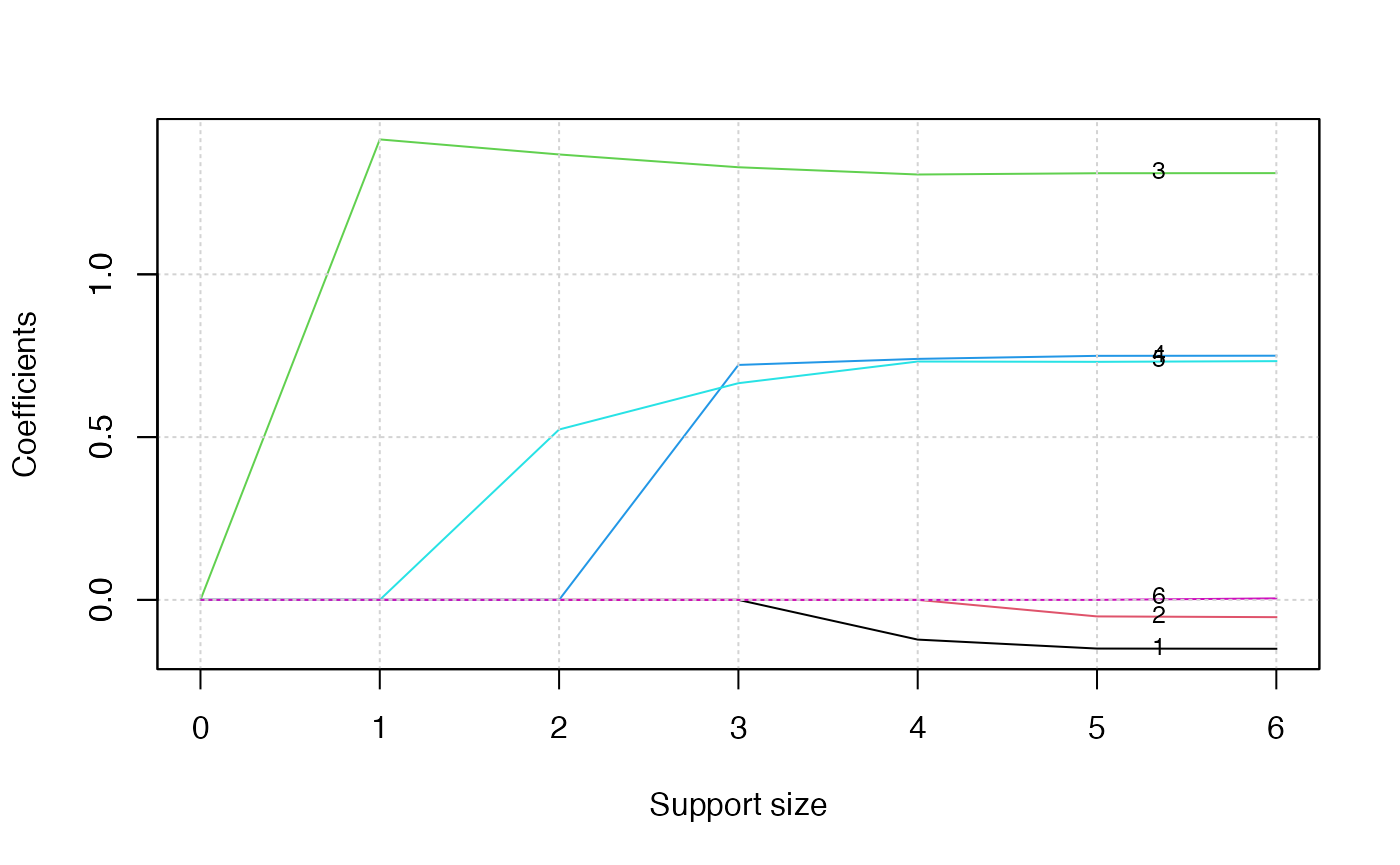
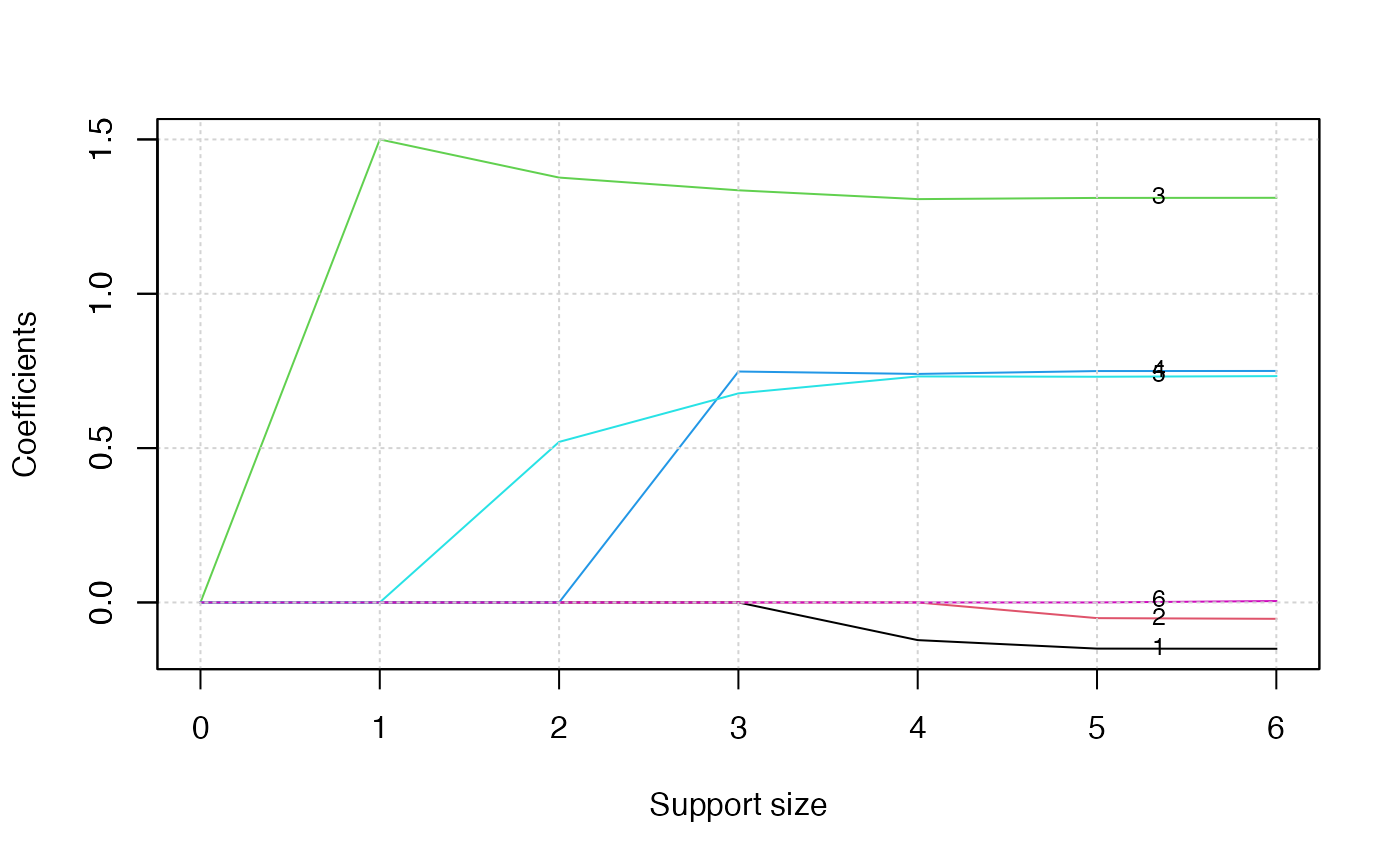
Built site for abess: 0.4.6@316d23e

diff --git a/articles/v04-PoissonGammaReg.html b/articles/v04-PoissonGammaReg.html
@@ -180,26 +180,26 @@
 <code class="sourceCode R"><span><span class="co"># draw the estimated coefficients on all candidate support size</span></span>
 <span><span class="fu"><a href="https://rdrr.io/r/stats/coef.html" class="external-link">coef</a></span><span class="op">(</span><span class="va">abess_fit</span><span class="op">)</span></span></code></pre></div>
 <pre><code><span><span class="co">## 7 x 7 sparse Matrix of class "dgCMatrix"</span></span>
-<span><span class="co">##                    0         1         2           3          4           5</span></span>
-<span><span class="co">## (intercept) 1.581038 0.8669804 0.3052350 -0.05518507 -0.1047519 -0.11247215</span></span>
-<span><span class="co">## age         .        .         .          .          -0.1219906 -0.14952589</span></span>
-<span><span class="co">## sex         .        .         .          .           .         -0.05079657</span></span>
-<span><span class="co">## job         .        1.4144348 1.3682226  1.32894420  1.3066498  1.31052728</span></span>
-<span><span class="co">## education   .        .         .          0.72169239  0.7402870  0.74962104</span></span>
-<span><span class="co">## region      .        .         0.5233401  0.66562804  0.7321651  0.73122135</span></span>
-<span><span class="co">## marriage    .        .         .          .           .          .         </span></span>
+<span><span class="co">##                    0         1         2          3          4           5</span></span>
+<span><span class="co">## (intercept) 1.581038 0.4281173 0.2558213 -0.1046718 -0.1048012 -0.11247259</span></span>
+<span><span class="co">## age         .        .         .          .         -0.1220305 -0.14952569</span></span>
+<span><span class="co">## sex         .        .         .          .          .         -0.05079627</span></span>
+<span><span class="co">## job         .        1.5000590 1.3764398  1.3352362  1.3066528  1.31052729</span></span>
+<span><span class="co">## education   .        .         .          0.7481282  0.7402961  0.74962052</span></span>
+<span><span class="co">## region      .        .         0.5200980  0.6772810  0.7321931  0.73122143</span></span>
+<span><span class="co">## marriage    .        .         .          .          .          .         </span></span>
 <span><span class="co">##                        6</span></span>
-<span><span class="co">## (intercept) -0.113162654</span></span>
-<span><span class="co">## age         -0.150217854</span></span>
-<span><span class="co">## sex         -0.053080658</span></span>
-<span><span class="co">## job          1.310896794</span></span>
-<span><span class="co">## education    0.750017046</span></span>
-<span><span class="co">## region       0.733310373</span></span>
-<span><span class="co">## marriage     0.004552143</span></span></code></pre>
+<span><span class="co">## (intercept) -0.113009283</span></span>
+<span><span class="co">## age         -0.150101543</span></span>
+<span><span class="co">## sex         -0.053034139</span></span>
+<span><span class="co">## job          1.310882786</span></span>
+<span><span class="co">## education    0.749947673</span></span>
+<span><span class="co">## region       0.733199019</span></span>
+<span><span class="co">## marriage     0.004493453</span></span></code></pre>
 <div class="sourceCode" id="cb10"><pre class="downlit sourceCode r">
 <code class="sourceCode R"><span><span class="co"># get the deviance of the estimated model on all candidate support size</span></span>
 <span><span class="fu"><a href="https://rdrr.io/r/stats/deviance.html" class="external-link">deviance</a></span><span class="op">(</span><span class="va">abess_fit</span><span class="op">)</span></span></code></pre></div>
-<pre><code><span><span class="co">## [1]  -282.3847  -764.2346  -936.2063 -1011.7423 -1013.1902 -1013.6433 -1013.6466</span></span></code></pre>
+<pre><code><span><span class="co">## [1]  -282.3847  -792.8596  -936.6450 -1011.8841 -1013.1902 -1013.6433 -1013.6466</span></span></code></pre>
 <div class="sourceCode" id="cb12"><pre class="downlit sourceCode r">
 <code class="sourceCode R"><span><span class="co"># print the fitted model</span></span>
 <span><span class="fu"><a href="https://rdrr.io/r/base/print.html" class="external-link">print</a></span><span class="op">(</span><span class="va">abess_fit</span><span class="op">)</span></span></code></pre></div>
@@ -208,9 +208,9 @@
 <span><span class="co">## </span></span>
 <span><span class="co">##   support.size        dev        GIC</span></span>
 <span><span class="co">## 1            0  -282.3847  -564.7694</span></span>
-<span><span class="co">## 2            1  -764.2346 -1525.7328</span></span>
-<span><span class="co">## 3            2  -936.2063 -1866.9398</span></span>
-<span><span class="co">## 4            3 -1011.7423 -2015.2755</span></span>
+<span><span class="co">## 2            1  -792.8596 -1582.9829</span></span>
+<span><span class="co">## 3            2  -936.6450 -1867.8174</span></span>
+<span><span class="co">## 4            3 -1011.8841 -2015.5593</span></span>
 <span><span class="co">## 5            4 -1013.1902 -2015.4350</span></span>
 <span><span class="co">## 6            5 -1013.6433 -2013.6050</span></span>
 <span><span class="co">## 7            6 -1013.6466 -2010.8751</span></span></code></pre>
@@ -218,12 +218,12 @@
 <div class="sourceCode" id="cb14"><pre class="downlit sourceCode r">
 <code class="sourceCode R"><span><span class="fu"><a href="https://rdrr.io/r/utils/head.html" class="external-link">head</a></span><span class="op">(</span><span class="fu"><a href="https://rdrr.io/r/stats/predict.html" class="external-link">predict</a></span><span class="op">(</span><span class="va">abess_fit</span>, newx <span class="op">=</span> <span class="va">dat</span><span class="op">$</span><span class="va">x</span>, support.size <span class="op">=</span> <span class="fu"><a href="https://rdrr.io/r/base/c.html" class="external-link">c</a></span><span class="op">(</span><span class="fl">3</span>, <span class="fl">4</span><span class="op">)</span><span class="op">)</span><span class="op">)</span></span></code></pre></div>
 <pre><code><span><span class="co">##              3         4</span></span>
-<span><span class="co">## [1,]  1.849023  1.954858</span></span>
-<span><span class="co">## [2,]  2.695207  2.692242</span></span>
-<span><span class="co">## [3,]  3.074630  3.088164</span></span>
-<span><span class="co">## [4,] -1.031980 -1.301919</span></span>
-<span><span class="co">## [5,] -2.175401 -2.211152</span></span>
-<span><span class="co">## [6,]  4.105372  4.103335</span></span></code></pre>
+<span><span class="co">## [1,]  1.838257  1.954873</span></span>
+<span><span class="co">## [2,]  2.650751  2.692234</span></span>
+<span><span class="co">## [3,]  3.080213  3.088154</span></span>
+<span><span class="co">## [4,] -1.098245 -1.302048</span></span>
+<span><span class="co">## [5,] -2.200387 -2.211218</span></span>
+<span><span class="co">## [6,]  4.107200  4.103329</span></span></code></pre>
 <p>The <code><a href="../reference/plot.abess.html">plot.abess()</a></code> function helps to visualize the change of models with the change of support size. There are 5 types of graph you can generate, including <code>coef</code> for the coefficient value, <code>l2norm</code> for the L2-norm of the coefficients, <code>dev</code> for the deviance and <code>tune</code> for the tuning value. Default if <code>coef</code>.</p>
 <div class="sourceCode" id="cb16"><pre class="downlit sourceCode r">
 <code class="sourceCode R"><span><span class="fu"><a href="https://rdrr.io/r/graphics/plot.default.html" class="external-link">plot</a></span><span class="op">(</span><span class="va">abess_fit</span>, label <span class="op">=</span> <span class="cn">TRUE</span><span class="op">)</span></span></code></pre></div>
@@ -236,7 +236,7 @@
 <p>The tuning value reaches the lowest point at 3. And We might choose the estimated model with support size equals 6 as our final model. In fact, the tuning values of different model sizes are provided in <code>tune.value</code> of the <code>abess</code> object. You can get the best model size through the following call.</p>
 <div class="sourceCode" id="cb18"><pre class="downlit sourceCode r">
 <code class="sourceCode R"><span><span class="va">abess_fit</span><span class="op">$</span><span class="va">support.size</span><span class="op">[</span><span class="fu"><a href="https://rdrr.io/r/base/which.min.html" class="external-link">which.min</a></span><span class="op">(</span><span class="va">abess_fit</span><span class="op">$</span><span class="va">tune.value</span><span class="op">)</span><span class="op">]</span></span></code></pre></div>
-<pre><code><span><span class="co">## [1] 4</span></span></code></pre>
+<pre><code><span><span class="co">## [1] 3</span></span></code></pre>
 <p>To extract the specified model from the <code>abess</code> object, we can call the <code><a href="../reference/extract.abess.html">extract()</a></code> function with a given <code>support.size</code>. If <code>support.size</code> is not provided, the model with the best tuning value will be returned. Here we extract the model with support size equals to 3.</p>
 <div class="sourceCode" id="cb20"><pre class="downlit sourceCode r">
 <code class="sourceCode R"><span><span class="va">best.model</span> <span class="op">=</span> <span class="fu"><a href="../reference/extract.abess.html">extract</a></span><span class="op">(</span><span class="va">abess_fit</span>, support.size <span class="op">=</span> <span class="fl">3</span><span class="op">)</span></span>
@@ -249,23 +249,23 @@
 <span><span class="co">##   .. ..@ Dimnames:List of 2</span></span>
 <span><span class="co">##   .. .. ..$ : chr [1:6] "age" "sex" "job" "education" ...</span></span>
 <span><span class="co">##   .. .. ..$ : chr "3"</span></span>
-<span><span class="co">##   .. ..@ x       : num [1:3] 1.329 0.722 0.666</span></span>
+<span><span class="co">##   .. ..@ x       : num [1:3] 1.335 0.748 0.677</span></span>
 <span><span class="co">##   .. ..@ factors : list()</span></span>
-<span><span class="co">##  $ intercept   : num -0.0552</span></span>
+<span><span class="co">##  $ intercept   : num -0.105</span></span>
 <span><span class="co">##  $ support.size: num 3</span></span>
 <span><span class="co">##  $ support.vars: chr [1:3] "job" "education" "region"</span></span>
-<span><span class="co">##  $ support.beta: num [1:3] 1.329 0.722 0.666</span></span>
+<span><span class="co">##  $ support.beta: num [1:3] 1.335 0.748 0.677</span></span>
 <span><span class="co">##  $ dev         : num -1012</span></span>
-<span><span class="co">##  $ tune.value  : num -2015</span></span></code></pre>
+<span><span class="co">##  $ tune.value  : num -2016</span></span></code></pre>
 <div class="sourceCode" id="cb22"><pre class="downlit sourceCode r">
 <code class="sourceCode R"><span><span class="va">best.model</span><span class="op">$</span><span class="va">beta</span></span></code></pre></div>
 <pre><code><span><span class="co">## 6 x 1 sparse Matrix of class "dgCMatrix"</span></span>
 <span><span class="co">##                   3</span></span>
 <span><span class="co">## age       .        </span></span>
 <span><span class="co">## sex       .        </span></span>
-<span><span class="co">## job       1.3289442</span></span>
-<span><span class="co">## education 0.7216924</span></span>
-<span><span class="co">## region    0.6656280</span></span>
+<span><span class="co">## job       1.3352362</span></span>
+<span><span class="co">## education 0.7481282</span></span>
+<span><span class="co">## region    0.6772810</span></span>
 <span><span class="co">## marriage  .</span></span></code></pre>
 <p>The return is a list containing the basic information of the estimated model. The best model has estimated coefficients every close to the true coefficients and it successfully recovers the correct support.</p>
 </div>
@@ -303,21 +303,21 @@ y_i \sim Gamma(\mu_i, \alpha),
 <span><span class="fu"><a href="https://rdrr.io/r/stats/coef.html" class="external-link">coef</a></span><span class="op">(</span><span class="va">abess_fit</span><span class="op">)</span></span></code></pre></div>
 <pre><code><span><span class="co">## 7 x 7 sparse Matrix of class "dgCMatrix"</span></span>
 <span><span class="co">##                    0        1         2         3         4         5</span></span>
-<span><span class="co">## (intercept) 342.3786 433.5399 449.27777 453.62074 454.59732 456.83731</span></span>
-<span><span class="co">## age           .        .        .         .         .       -12.70806</span></span>
-<span><span class="co">## sex           .        .        .         .       -17.01060 -15.27726</span></span>
-<span><span class="co">## job           .        .      105.29501  84.15000  85.32617  87.44921</span></span>
-<span><span class="co">## education     .        .        .        72.27034  71.99297  71.34328</span></span>
-<span><span class="co">## region        .      132.5486  72.92361  54.95905  58.82785  61.00714</span></span>
+<span><span class="co">## (intercept) 342.3786 433.5399 449.27779 453.62074 454.59730 456.83734</span></span>
+<span><span class="co">## age           .        .        .         .         .       -12.70808</span></span>
+<span><span class="co">## sex           .        .        .         .       -17.01056 -15.27726</span></span>
+<span><span class="co">## job           .        .      105.29506  84.15002  85.32617  87.44927</span></span>
+<span><span class="co">## education     .        .        .        72.27035  71.99302  71.34324</span></span>
+<span><span class="co">## region        .      132.5486  72.92359  54.95904  58.82782  61.00712</span></span>
 <span><span class="co">## marriage      .        .        .         .         .         .      </span></span>
-<span><span class="co">##                       6</span></span>
-<span><span class="co">## (intercept) 456.9220275</span></span>
-<span><span class="co">## age         -12.6863180</span></span>
-<span><span class="co">## sex         -15.1307531</span></span>
-<span><span class="co">## job          87.4276376</span></span>
-<span><span class="co">## education    71.2958702</span></span>
-<span><span class="co">## region       61.0173585</span></span>
-<span><span class="co">## marriage      0.8782877</span></span></code></pre>
+<span><span class="co">##                      6</span></span>
+<span><span class="co">## (intercept) 456.922083</span></span>
+<span><span class="co">## age         -12.686381</span></span>
+<span><span class="co">## sex         -15.130838</span></span>
+<span><span class="co">## job          87.427637</span></span>
+<span><span class="co">## education    71.295781</span></span>
+<span><span class="co">## region       61.017459</span></span>
+<span><span class="co">## marriage      0.878245</span></span></code></pre>
 <div class="sourceCode" id="cb30"><pre class="downlit sourceCode r">
 <code class="sourceCode R"><span><span class="co"># get the deviance of the estimated model on all candidate support size</span></span>
 <span><span class="fu"><a href="https://rdrr.io/r/stats/deviance.html" class="external-link">deviance</a></span><span class="op">(</span><span class="va">abess_fit</span><span class="op">)</span></span></code></pre></div>
@@ -333,20 +333,20 @@ y_i \sim Gamma(\mu_i, \alpha),
 <span><span class="co">## 1            0 -4.835917 -4.782249</span></span>
 <span><span class="co">## 2            1 -4.979948 -4.879499</span></span>
 <span><span class="co">## 3            2 -5.041093 -5.009807</span></span>
-<span><span class="co">## 4            3 -5.058884 -4.571407</span></span>
-<span><span class="co">## 5            4 -5.059648 -4.568772</span></span>
-<span><span class="co">## 6            5 -5.060127 -4.569592</span></span>
+<span><span class="co">## 4            3 -5.058884 -4.571414</span></span>
+<span><span class="co">## 5            4 -5.059648 -4.568769</span></span>
+<span><span class="co">## 6            5 -5.060127 -4.568148</span></span>
 <span><span class="co">## 7            6 -5.060129 -4.569258</span></span></code></pre>
 <div class="sourceCode" id="cb34"><pre class="downlit sourceCode r">
 <code class="sourceCode R"><span><span class="co"># predict results for given support sizes</span></span>
 <span><span class="fu"><a href="https://rdrr.io/r/utils/head.html" class="external-link">head</a></span><span class="op">(</span><span class="fu"><a href="https://rdrr.io/r/stats/predict.html" class="external-link">predict</a></span><span class="op">(</span><span class="va">abess_fit</span>, newx <span class="op">=</span> <span class="va">dat</span><span class="op">$</span><span class="va">x</span>, support.size <span class="op">=</span> <span class="fu"><a href="https://rdrr.io/r/base/c.html" class="external-link">c</a></span><span class="op">(</span><span class="fl">3</span>, <span class="fl">4</span><span class="op">)</span><span class="op">)</span><span class="op">)</span></span></code></pre></div>
 <pre><code><span><span class="co">##             3        4</span></span>
 <span><span class="co">## [1,] 611.7083 627.6281</span></span>
-<span><span class="co">## [2,] 624.2342 634.1052</span></span>
-<span><span class="co">## [3,] 696.4612 711.9196</span></span>
+<span><span class="co">## [2,] 624.2342 634.1050</span></span>
+<span><span class="co">## [3,] 696.4613 711.9196</span></span>
 <span><span class="co">## [4,] 376.5679 373.0613</span></span>
 <span><span class="co">## [5,] 357.9886 365.3432</span></span>
-<span><span class="co">## [6,] 752.4413 724.4202</span></span></code></pre>
+<span><span class="co">## [6,] 752.4414 724.4203</span></span></code></pre>
 <div class="sourceCode" id="cb36"><pre class="downlit sourceCode r">
 <code class="sourceCode R"><span><span class="fu"><a href="https://rdrr.io/r/graphics/plot.default.html" class="external-link">plot</a></span><span class="op">(</span><span class="va">abess_fit</span>, label <span class="op">=</span> <span class="cn">TRUE</span><span class="op">)</span></span></code></pre></div>
 <p><img src="v04-PoissonGammaReg_files/figure-html/unnamed-chunk-9-1.png" width="700"></p>
@@ -381,9 +381,9 @@ y_i \sim Gamma(\mu_i, \alpha),
 <span><span class="co">##                  3</span></span>
 <span><span class="co">## age        .      </span></span>
 <span><span class="co">## sex        .      </span></span>
-<span><span class="co">## job       84.15000</span></span>
-<span><span class="co">## education 72.27034</span></span>
-<span><span class="co">## region    54.95905</span></span>
+<span><span class="co">## job       84.15002</span></span>
+<span><span class="co">## education 72.27035</span></span>
+<span><span class="co">## region    54.95904</span></span>
 <span><span class="co">## marriage   .</span></span></code></pre>
 </div>
   </div>

diff --git a/articles/v09-fasterSetting.html b/articles/v09-fasterSetting.html
@@ -176,13 +176,13 @@
 <span><span class="va">x</span> <span class="op">&lt;-</span> <span class="fu"><a href="https://rdrr.io/pkg/Matrix/man/Matrix.html" class="external-link">Matrix</a></span><span class="op">(</span><span class="va">x</span><span class="op">)</span></span>
 <span><span class="fu"><a href="https://rdrr.io/r/utils/head.html" class="external-link">head</a></span><span class="op">(</span><span class="va">x</span><span class="op">[</span>, <span class="fl">1</span><span class="op">:</span><span class="fl">10</span><span class="op">]</span><span class="op">)</span></span></code></pre></div>
 <pre><code><span><span class="co">## 6 x 10 sparse Matrix of class "dgCMatrix"</span></span>
-<span><span class="co">##                                                                   </span></span>
-<span><span class="co">## [1,] . .  .        .         .  .          .         . . 0.8510793</span></span>
-<span><span class="co">## [2,] . .  .        .         .  .          .         . . .        </span></span>
-<span><span class="co">## [3,] . .  .        .         .  .          .         . . .        </span></span>
-<span><span class="co">## [4,] . .  .        0.7514161 .  .          .         . . .        </span></span>
-<span><span class="co">## [5,] . . -1.586365 .         . -0.5025752  .         . . .        </span></span>
-<span><span class="co">## [6,] . .  .        .         .  .         -0.4935508 . . .</span></span></code></pre>
+<span><span class="co">##                                                 </span></span>
+<span><span class="co">## [1,] .  .        .  .        . . . 0.3838615 . .</span></span>
+<span><span class="co">## [2,] .  .        .  .        . . . .         . .</span></span>
+<span><span class="co">## [3,] .  .        .  .        . . . .         . .</span></span>
+<span><span class="co">## [4,] .  .        . -1.681055 . . . 0.6388219 . .</span></span>
+<span><span class="co">## [5,] .  .        .  .        . . . .         . .</span></span>
+<span><span class="co">## [6,] . -1.579548 .  .        . . . .         . .</span></span></code></pre>
 <p>Then, we apply ABESS algorithm on Matrix <code>x</code> and record the runtime in <code>t1</code>:</p>
 <div class="sourceCode" id="cb5"><pre class="downlit sourceCode r">
 <code class="sourceCode R"><span><span class="kw"><a href="https://rdrr.io/r/base/library.html" class="external-link">library</a></span><span class="op">(</span><span class="va"><a href="https://github.com/abess-team/abess" class="external-link">abess</a></span><span class="op">)</span></span>
@@ -191,19 +191,19 @@
 <div class="sourceCode" id="cb6"><pre class="downlit sourceCode r">
 <code class="sourceCode R"><span><span class="va">x</span> <span class="op">&lt;-</span> <span class="fu"><a href="https://rdrr.io/r/base/matrix.html" class="external-link">as.matrix</a></span><span class="op">(</span><span class="va">x</span><span class="op">)</span></span>
 <span><span class="fu"><a href="https://rdrr.io/r/utils/head.html" class="external-link">head</a></span><span class="op">(</span><span class="va">x</span><span class="op">[</span>, <span class="fl">1</span><span class="op">:</span><span class="fl">6</span><span class="op">]</span><span class="op">)</span></span></code></pre></div>
-<pre><code><span><span class="co">##      [,1] [,2]      [,3]      [,4] [,5]       [,6]</span></span>
-<span><span class="co">## [1,]    0    0  0.000000 0.0000000    0  0.0000000</span></span>
-<span><span class="co">## [2,]    0    0  0.000000 0.0000000    0  0.0000000</span></span>
-<span><span class="co">## [3,]    0    0  0.000000 0.0000000    0  0.0000000</span></span>
-<span><span class="co">## [4,]    0    0  0.000000 0.7514161    0  0.0000000</span></span>
-<span><span class="co">## [5,]    0    0 -1.586365 0.0000000    0 -0.5025752</span></span>
-<span><span class="co">## [6,]    0    0  0.000000 0.0000000    0  0.0000000</span></span></code></pre>
+<pre><code><span><span class="co">##      [,1]      [,2] [,3]      [,4] [,5] [,6]</span></span>
+<span><span class="co">## [1,]    0  0.000000    0  0.000000    0    0</span></span>
+<span><span class="co">## [2,]    0  0.000000    0  0.000000    0    0</span></span>
+<span><span class="co">## [3,]    0  0.000000    0  0.000000    0    0</span></span>
+<span><span class="co">## [4,]    0  0.000000    0 -1.681055    0    0</span></span>
+<span><span class="co">## [5,]    0  0.000000    0  0.000000    0    0</span></span>
+<span><span class="co">## [6,]    0 -1.579548    0  0.000000    0    0</span></span></code></pre>
 <div class="sourceCode" id="cb8"><pre class="downlit sourceCode r">
 <code class="sourceCode R"><span><span class="va">t2</span> <span class="op">&lt;-</span> <span class="fu"><a href="https://rdrr.io/r/base/system.time.html" class="external-link">system.time</a></span><span class="op">(</span><span class="va">abess_fit</span> <span class="op">&lt;-</span> <span class="fu"><a href="../reference/abess.html">abess</a></span><span class="op">(</span><span class="va">x</span>, <span class="va">y</span><span class="op">)</span><span class="op">)</span></span>
 <span><span class="fu"><a href="https://rdrr.io/r/base/cbind.html" class="external-link">rbind</a></span><span class="op">(</span><span class="va">t1</span>, <span class="va">t2</span><span class="op">)</span><span class="op">[</span>, <span class="fl">1</span><span class="op">:</span><span class="fl">3</span><span class="op">]</span></span></code></pre></div>
 <pre><code><span><span class="co">##    user.self sys.self elapsed</span></span>
-<span><span class="co">## t1     0.281    0.014   0.767</span></span>
-<span><span class="co">## t2     0.334    0.033   0.465</span></span></code></pre>
+<span><span class="co">## t1     0.267    0.012   0.611</span></span>
+<span><span class="co">## t2     0.332    0.033   0.633</span></span></code></pre>
 <p>From the comparison, we see that the time required by sparse matrix is visibly smaller, and thus, we suggest to assign a sparse matrix to <code>abess</code> when the input matrix have a lot of zero entries.</p>
 </div>
 <div class="section level2">
@@ -241,8 +241,8 @@
 <code class="sourceCode R"><span><span class="va">t2</span> <span class="op">&lt;-</span> <span class="fu"><a href="https://rdrr.io/r/base/system.time.html" class="external-link">system.time</a></span><span class="op">(</span><span class="va">abess_fit</span> <span class="op">&lt;-</span> <span class="fu"><a href="../reference/abess.html">abess</a></span><span class="op">(</span><span class="va">y</span> <span class="op">~</span> <span class="va">.</span>, data <span class="op">=</span> <span class="va">dat</span><span class="op">)</span><span class="op">)</span></span>
 <span><span class="fu"><a href="https://rdrr.io/r/base/cbind.html" class="external-link">rbind</a></span><span class="op">(</span><span class="va">t1</span>, <span class="va">t2</span><span class="op">)</span><span class="op">[</span>, <span class="fl">1</span><span class="op">:</span><span class="fl">3</span><span class="op">]</span></span></code></pre></div>
 <pre><code><span><span class="co">##    user.self sys.self elapsed</span></span>
-<span><span class="co">## t1     0.022    0.001   0.022</span></span>
-<span><span class="co">## t2     0.066    0.009   0.075</span></span></code></pre>
+<span><span class="co">## t1     0.021    0.001   0.022</span></span>
+<span><span class="co">## t2     0.065    0.009   0.074</span></span></code></pre>
 </div>
 <div class="section level2">
 <h2 id="early-stop">Early stop<a class="anchor" aria-label="anchor" href="#early-stop"></a>
@@ -320,8 +320,8 @@
 <code class="sourceCode R"><span><span class="va">t2</span> <span class="op">&lt;-</span> <span class="fu"><a href="https://rdrr.io/r/base/system.time.html" class="external-link">system.time</a></span><span class="op">(</span><span class="va">abess_fit</span> <span class="op">&lt;-</span> <span class="fu"><a href="../reference/abess.html">abess</a></span><span class="op">(</span><span class="va">y</span> <span class="op">~</span> <span class="va">.</span>, data <span class="op">=</span> <span class="va">dat</span><span class="op">)</span><span class="op">)</span></span>
 <span><span class="fu"><a href="https://rdrr.io/r/base/cbind.html" class="external-link">rbind</a></span><span class="op">(</span><span class="va">t1</span>, <span class="va">t2</span><span class="op">)</span><span class="op">[</span>, <span class="fl">1</span><span class="op">:</span><span class="fl">3</span><span class="op">]</span></span></code></pre></div>
 <pre><code><span><span class="co">##    user.self sys.self elapsed</span></span>
-<span><span class="co">## t1     0.065    0.009   0.075</span></span>
-<span><span class="co">## t2     0.068    0.009   0.087</span></span></code></pre>
+<span><span class="co">## t1     0.065    0.008   0.074</span></span>
+<span><span class="co">## t2     0.063    0.007   0.070</span></span></code></pre>
 <p>we can conclude that early-stopping brings fast computation and might maintain statistical guarantee.</p>
 </div>
   </div>

diff --git a/reference/abesspca.html b/reference/abesspca.html
@@ -398,10 +398,10 @@ because the meaning of these parameters are very similar.</p>
 <span class="r-out co"><span class="r-pr">#&gt;</span> abesspca(x = rob_cov, type = "gram")</span>
 <span class="r-out co"><span class="r-pr">#&gt;</span> </span>
 <span class="r-out co"><span class="r-pr">#&gt;</span>   PC support.size       ev       pev</span>
-<span class="r-out co"><span class="r-pr">#&gt;</span> 1  1            1 6583.765 0.9596660</span>
-<span class="r-out co"><span class="r-pr">#&gt;</span> 2  1            2 6623.819 0.9655043</span>
-<span class="r-out co"><span class="r-pr">#&gt;</span> 3  1            3 6662.804 0.9711869</span>
-<span class="r-out co"><span class="r-pr">#&gt;</span> 4  1            4 6673.559 0.9727545</span>
+<span class="r-out co"><span class="r-pr">#&gt;</span> 1  1            1 6514.199 0.9621234</span>
+<span class="r-out co"><span class="r-pr">#&gt;</span> 2  1            2 6543.734 0.9664856</span>
+<span class="r-out co"><span class="r-pr">#&gt;</span> 3  1            3 6564.430 0.9695424</span>
+<span class="r-out co"><span class="r-pr">#&gt;</span> 4  1            4 6577.630 0.9714920</span>
 <span class="r-in"><span></span></span>
 <span class="r-in"><span><span class="co">## K-component principal component analysis</span></span></span>
 <span class="r-in"><span><span class="va">pca_fit</span> <span class="op">&lt;-</span> <span class="fu">abesspca</span><span class="op">(</span><span class="va">USArrests</span>,</span></span>

diff --git a/reference/abess.html b/reference/abess.html
@@ -590,7 +590,7 @@ Please see <a href="https://abess-team.github.io/abess/articles/v07-advancedFeat
 <span class="r-out co"><span class="r-pr">#&gt;</span> 6             5 16.1567523 14.520950</span>
 <span class="r-out co"><span class="r-pr">#&gt;</span> 7             6 15.1597900 22.506390</span>
 <span class="r-out co"><span class="r-pr">#&gt;</span> 8             7 14.1855894 37.171158</span>
-<span class="r-out co"><span class="r-pr">#&gt;</span> 9             8 12.9135546 46.277522</span>
+<span class="r-out co"><span class="r-pr">#&gt;</span> 9             8 12.9135546 46.277521</span>
 <span class="r-out co"><span class="r-pr">#&gt;</span> 10            9 11.0781991 59.083285</span>
 <span class="r-out co"><span class="r-pr">#&gt;</span> 11           10 12.1358700 65.943666</span>
 <span class="r-out co"><span class="r-pr">#&gt;</span> 12           11 10.9623392 75.621289</span>
